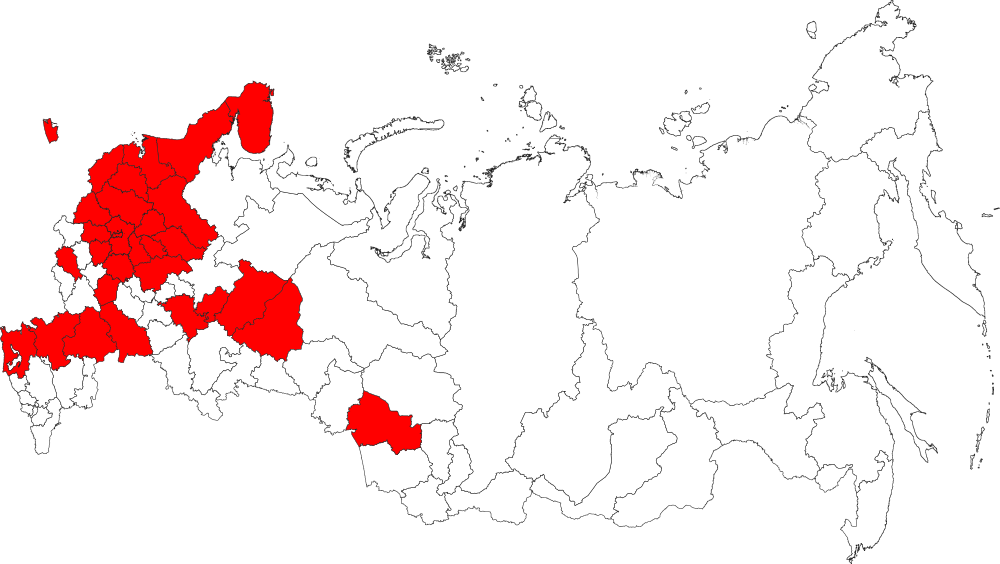
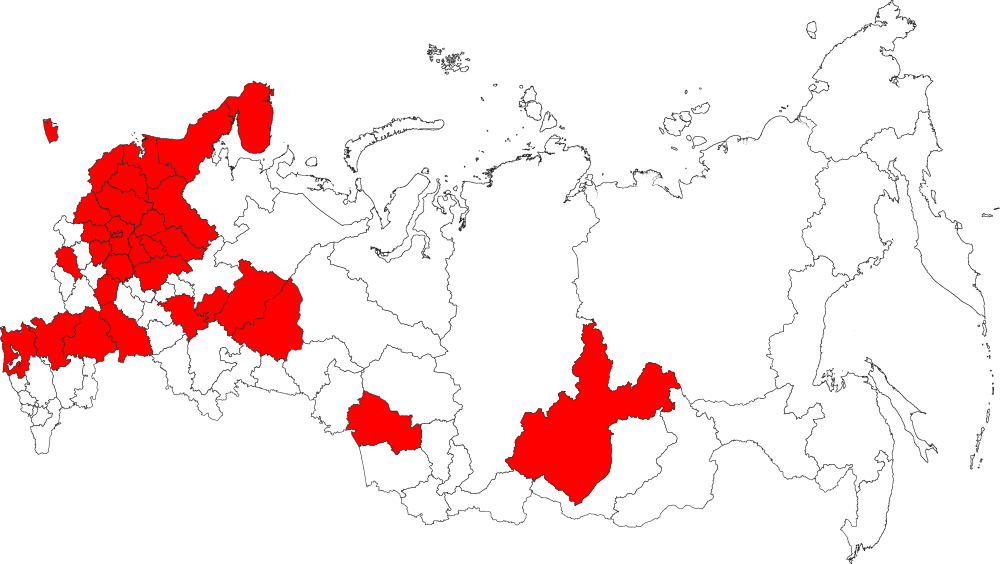
New post about Irkutsk

Changed region(s): [[0.496, 0.5727, 0.682, 0.9043]]

diff --git a/all/travel/russia/_posts/2021-02-27-irkutsk.md b/all/travel/russia/_posts/2021-02-27-irkutsk.md
@@ -4,4 +4,101 @@ title: "Иркутск"
 tags: internal
 date_start: 2021-02-27
 date_finish: 2021-03-09
+active: true
 ---
+
+Город, куда стоит ехать не только ради Байкала.
+![photo]({{ site.baseurl }}/images/irkutsk/map.png)
+
+Большинство из тех, кто приезжает в Иркутск, видят его только из окна машины по дороге на Байкал.  
+На мой взгляд совершенно незаслуженно. Иркутск красивый.
+
+Чудесные деревянные дома. Их много, и они в хорошем состоянии. Более того, здесь их строят, со всеми их атрибутами, ставнями, резьбой и прочим.
+![photo]({{ site.baseurl }}/images/irkutsk/01.jpg)
+![photo]({{ site.baseurl }}/images/irkutsk/02.jpg)
+![photo]({{ site.baseurl }}/images/irkutsk/03.jpg)
+
+130-й квартал или Иркутская слобода: достоточно большой участок восстановленной деревянной застройки с ресторанами, кафешками и не только.  
+В нём, например, располагается Министерство культуры Иркутской области.
+![photo]({{ site.baseurl }}/images/irkutsk/04.jpg)
+
+Не менее чудесные не деревянные дома.
+![photo]({{ site.baseurl }}/images/irkutsk/05.jpg)
+![photo]({{ site.baseurl }}/images/irkutsk/06.jpg)
+![photo]({{ site.baseurl }}/images/irkutsk/07.jpg)
+![photo]({{ site.baseurl }}/images/irkutsk/08.jpg)
+![photo]({{ site.baseurl }}/images/irkutsk/09.jpg)
+
+Символ Иркутска — Бабр.
+![photo]({{ site.baseurl }}/images/irkutsk/10.jpg)
+
+Не всё в идеальном состоянии.
+![photo]({{ site.baseurl }}/images/irkutsk/11.jpg)
+![photo]({{ site.baseurl }}/images/irkutsk/12.jpg)
+![photo]({{ site.baseurl }}/images/irkutsk/13.jpg)
+
+Редкий случай: государственная контора располагается в историческом здании и почти не испортила его.
+![photo]({{ site.baseurl }}/images/irkutsk/14.jpg)
+
+Чудесные двери.
+![photo]({{ site.baseurl }}/images/irkutsk/15.jpg)
+![photo]({{ site.baseurl }}/images/irkutsk/16.jpg)
+
+Два мира.
+![photo]({{ site.baseurl }}/images/irkutsk/17.jpg)
+
+Ледового городка здесь нет, зато есть такое.
+![photo]({{ site.baseurl }}/images/irkutsk/18.jpg)
+
+Ангара. Не замерзает даже в сильный мороз. И парит.
+![photo]({{ site.baseurl }}/images/irkutsk/19.jpg)
+![photo]({{ site.baseurl }}/images/irkutsk/20.jpg)
+![photo]({{ site.baseurl }}/images/irkutsk/21.jpg)
+
+##### Ангарск
+
+Небольшой город в часе езды от Иркутска. Интересен, прежде всего, восстановленными несколько лет назад огромными советскими мозаичными панно (1969-1975).
+
+![photo]({{ site.baseurl }}/images/irkutsk/22.jpg)
+
+«Во имя человека» и «Для блага человека».
+![photo]({{ site.baseurl }}/images/irkutsk/23.jpg)
+
+«В.И. Ленин» и «Торжество социализма».
+![photo]({{ site.baseurl }}/images/irkutsk/24.jpg)
+
+«Пролетариат» и «Революция».
+![photo]({{ site.baseurl }}/images/irkutsk/25.jpg)
+
+Портрет И.В. Курчатова и «Космонавт».
+![photo]({{ site.baseurl }}/images/irkutsk/26.jpg)
+
+«Старая Сибирь» и «Новая Сибирь».
+![photo]({{ site.baseurl }}/images/irkutsk/27.jpg)
+
+«Академик Королев» и «Воин-победитель».
+![photo]({{ site.baseurl }}/images/irkutsk/28.jpg)
+
+«Байкал» и «Ангара».
+![photo]({{ site.baseurl }}/images/irkutsk/29.jpg)
+
+«Сенатская площадь» и «Декабристы в Сибири».
+![photo]({{ site.baseurl }}/images/irkutsk/30.jpg)
+
+«Послание в Сибирь».
+![photo]({{ site.baseurl }}/images/irkutsk/31.jpg)
+
+##### Путевые странности
+
+Такси в городе работает не очень: небольшое количество машин, долгое ожидание и пробки.  
+А в Ангарске вообще только местное, никакого Яндекса или Убера нет.
+
+##### Общепит
+
+Советовать особо нечего, кроме, разве что, Harat's pub-а.
+
+##### Катки
+
+На городские катки не попал, но это и не важно, потому что всю следующую неделю я провёл на Байкале, о чём напишу отдельно.
+
+Средняя температура днём: -16.
